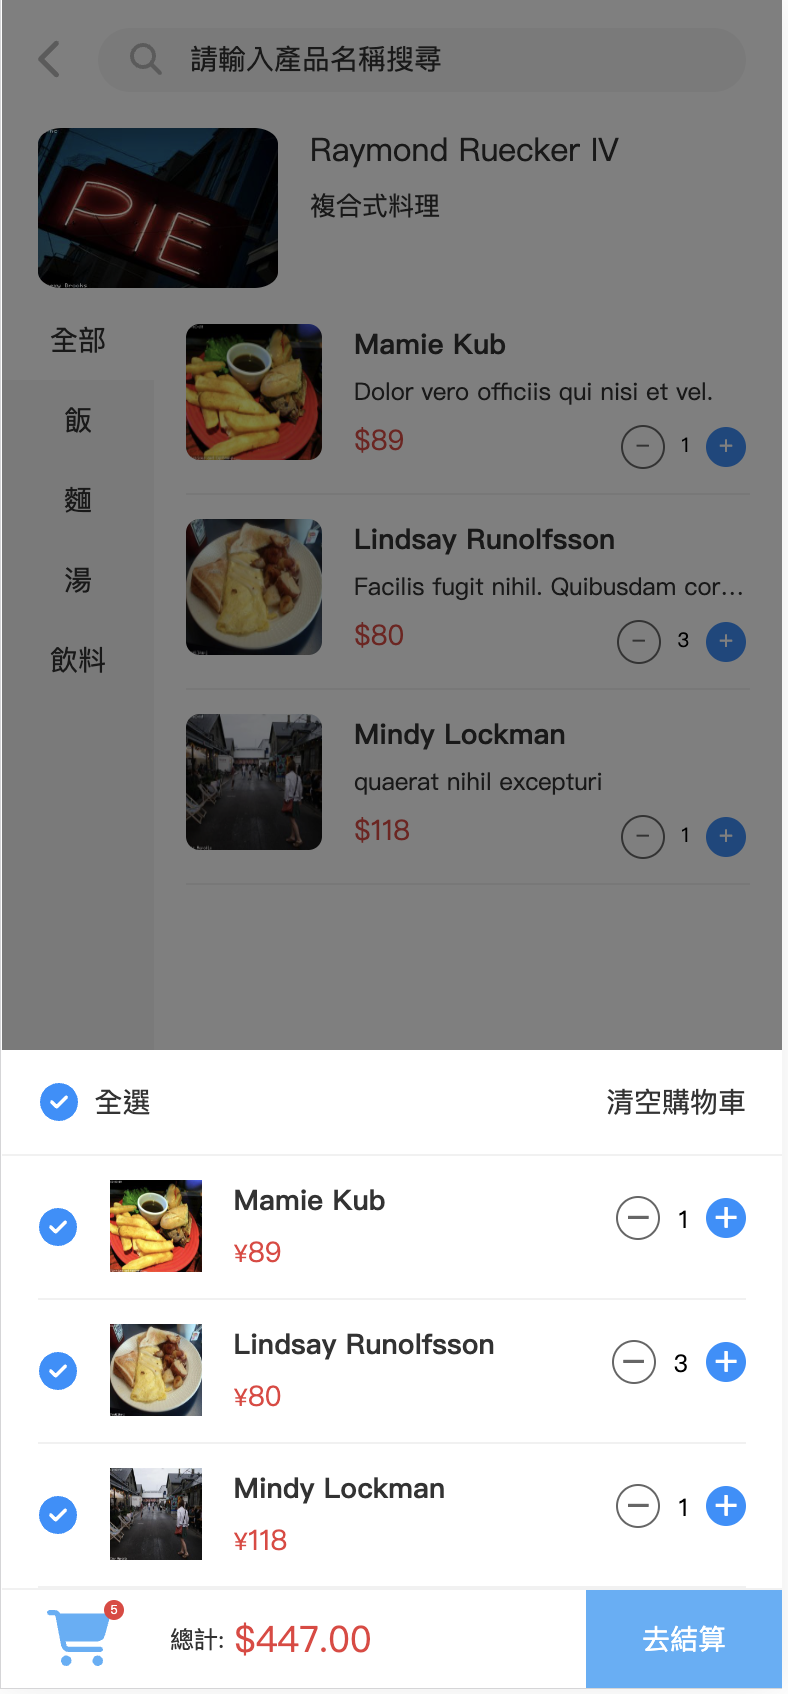
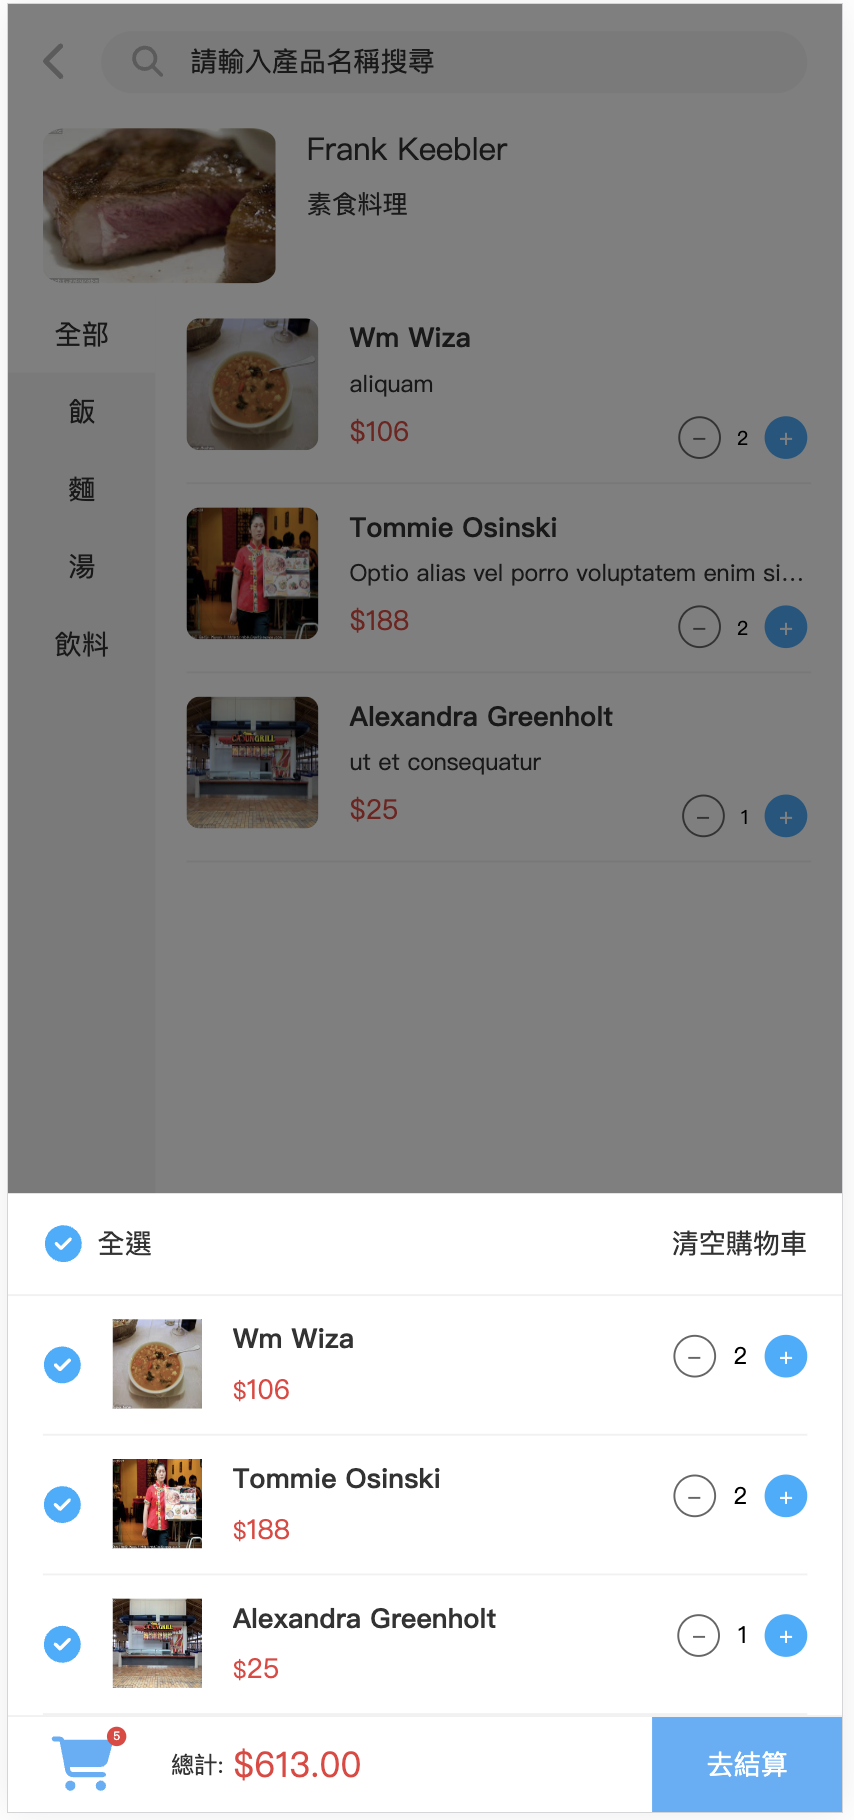
readme

diff --git a/src/views/shop/CartPart.vue b/src/views/shop/CartPart.vue
@@ -20,7 +20,7 @@
           <div class="product__item__detail">
             <h4 class="product__item__title">{{ item.name }}</h4>
             <p class="product__item__price">
-              <span class="product__item__yen">&yen;</span>{{ item.price }}
+              <span class="product__item__yen">$</span>{{ item.price }}
             </p>
           </div>
           <div class="product__number">
